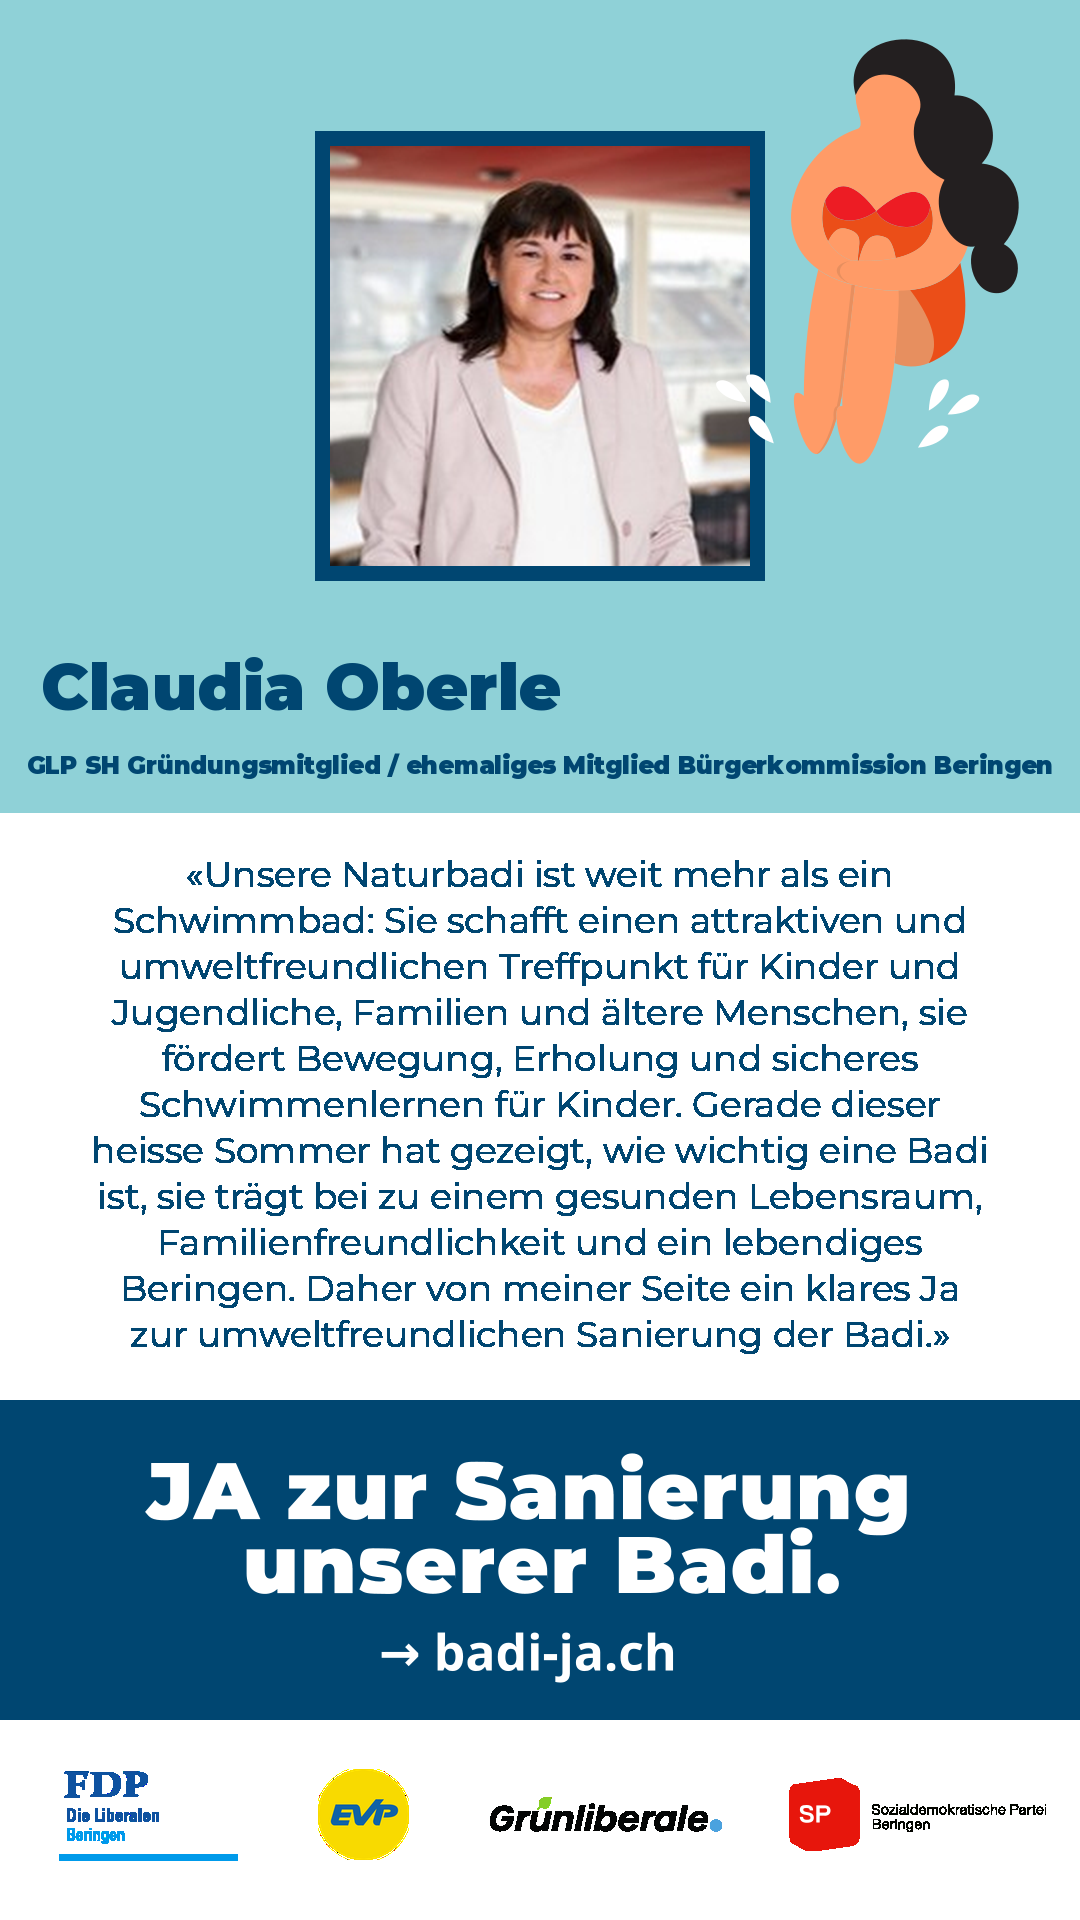
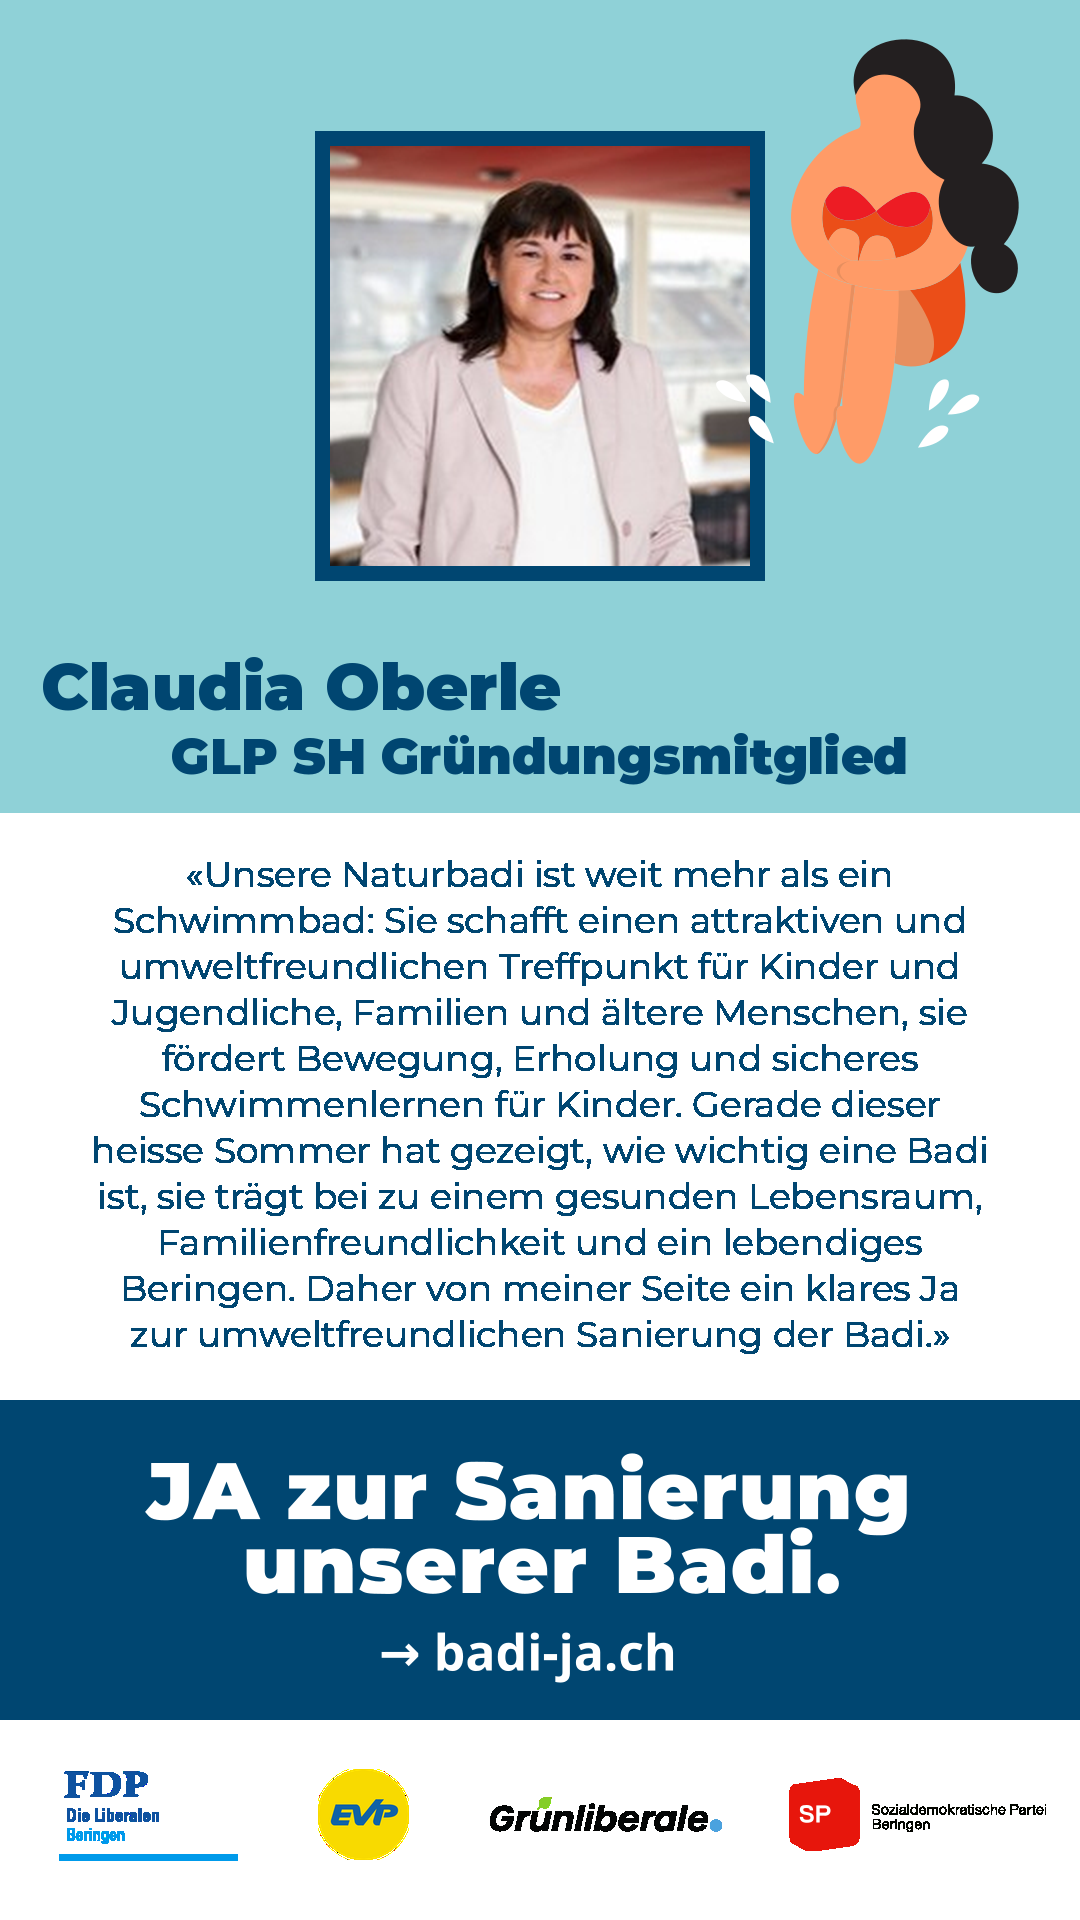
Fix oberle

Changed region(s): [[0.0306, 0.375, 0.9778, 0.4062]]

diff --git a/site/index.html b/site/index.html
@@ -596,7 +596,7 @@
             </blockquote>
             <figcaption>
               <cite>Claudia Oberle</cite>
-              <span>GLP SH Gründungsmitglied / ehemaliges Mitglied Bürgerkommission Beringen</span>
+              <span>GLP SH Gründungsmitglied</span>
               <button class="statement-card__share" type="button" data-share-image="assets/social/statement-claudia-oberle.png"
                 data-share-name="Claudia Oberle"
                 data-share-text="Unsere Naturbadi ist weit mehr als ein Schwimmbad: Sie schafft einen attraktiven und umweltfreundlichen Treffpunkt für Kinder und Jugendliche, Familien und ältere Menschen, sie fördert Bewegung, Erholung und sicheres Schwimmenlernen für Kinder. Gerade dieser heisse Sommer hat gezeigt, wie wichtig eine Badi ist, sie trägt bei zu einem gesunden Lebensraum, Familienfreundlichkeit und ein lebendiges Beringen. Daher von meiner Seite ein klares Ja zur umweltfreundlichen Sanierung der Badi."

diff --git a/scripts/generate_social_posts.py b/scripts/generate_social_posts.py
@@ -493,7 +493,7 @@ STATEMENTS = [
     dict(
         slug="claudia-oberle",
         name="Claudia Oberle",
-        role="GLP SH Gründungsmitglied / ehemaliges Mitglied Bürgerkommission Beringen",
+        role="GLP SH Gründungsmitglied",
         photo=STATEMENTS_DIR / "Claudia-Oberle.jpg",
         focus=(0.5, 0.45),
         quote=(
